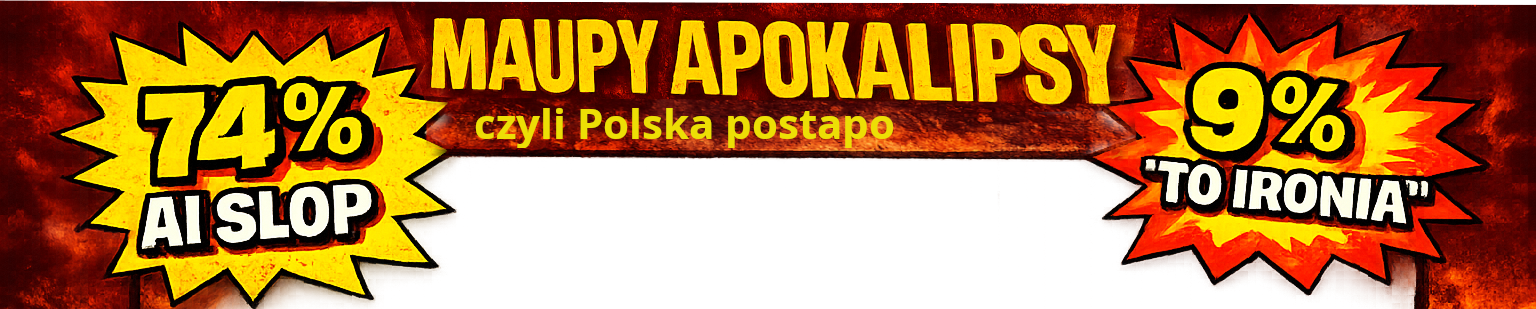
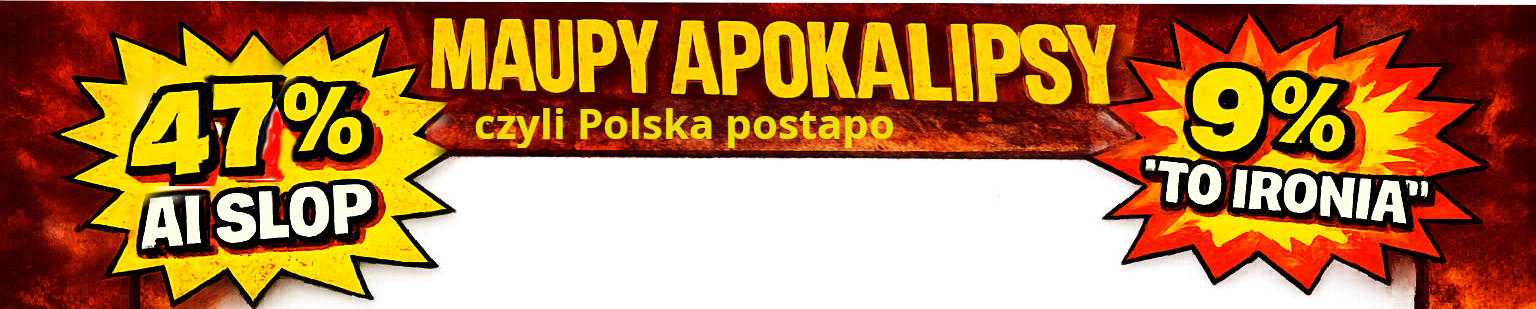
changes

Changed region(s): [[0.0625, 0.1456, 0.2188, 0.6699]]

diff --git a/index.html b/index.html
@@ -127,19 +127,6 @@
   <!-- URLs: https://kwejk.pl/obrazek/4134279/maupy-apokalipsy-czyli-polska-postapo-odc-15259-no-chyba-ze-czynny-zal.html -->
 </article>
 
-<article class="panel">
-  <header class="panel-meta">
-    <h2 class="panel-title">Maupy Apokalipsy czyli Polska Postapo odc 15246, Będziemy w kontakcie</h2>
-    <time class="panel-date" datetime="2026-01-10">2026-01-10</time>
-  </header>
-  <input type="checkbox" class="expand-toggle" id="expand-7">
-  <figure class="panel-figure">
-    <img src="img/przymierze2.png" alt="przymierze2.png" loading="lazy">
-    <figcaption class="visually-hidden">Maupy Apokalipsy czyli Polska Postapo odc 15246, Będziemy w kontakcie</figcaption>
-  </figure>
-  <label for="expand-7" class="expand-label">kliknij, żeby rozwinąć</label>
-  <!-- URLs: https://kwejk.pl/obrazek/4112560/maupy-apokalipsy-czyli-polska-postapo-odc-15246-bedziemy-w-kontakcie.html -->
-</article>
 
 <article class="panel">
   <header class="panel-meta">
@@ -2145,13 +2132,13 @@
 
 <article class="panel">
   <header class="panel-meta">
-    <h2 class="panel-title">Halina się wścieknie</h2>
+    <h2 class="panel-title">Halina się wścieknie</h2>
     <time class="panel-date" datetime="2024-02-08">2024-02-08</time>
   </header>
   <input type="checkbox" class="expand-toggle" id="expand-151">
   <figure class="panel-figure">
     <img src="img/wgosciach2.png" alt="wgosciach2.png" loading="lazy">
-    <figcaption class="visually-hidden">Halina się wścieknie</figcaption>
+    <figcaption class="visually-hidden">Halina się wścieknie</figcaption>
   </figure>
   <label for="expand-151" class="expand-label">kliknij, żeby rozwinąć</label>
   <!-- URLs: https://jbzd.com.pl/obr/3026548/halyna-sie-wscieknie -->
@@ -2579,13 +2566,13 @@
 
 <article class="panel">
   <header class="panel-meta">
-    <h2 class="panel-title">Może byłem młodszy, albo mniej mutantów się panoszyło</h2>
+    <h2 class="panel-title">Może byłem młodszy, albo mniej mutantów się panoszyło</h2>
     <time class="panel-date" datetime="2023-09-09">2023-09-09</time>
   </header>
   <input type="checkbox" class="expand-toggle" id="expand-182">
   <figure class="panel-figure">
     <img src="img/kiedyśtobyło.png" alt="kiedyśtobyło.png" loading="lazy">
-    <figcaption class="visually-hidden">Może byłem młodszy, albo mniej mutantów się panoszyło</figcaption>
+    <figcaption class="visually-hidden">Może byłem młodszy, albo mniej mutantów się panoszyło</figcaption>
   </figure>
   <label for="expand-182" class="expand-label">kliknij, żeby rozwinąć</label>
   <!-- URLs: https://jbzd.com.pl/obr/2986291/do-wygrania-talony-zywnosciowe-i-papier-toaletowy https://jbzd.com.pl/obr/2986437/a-moze-po-prostu-bylem-mlodszy-albo-mniej-mutantow-sie-panoszylo -->
